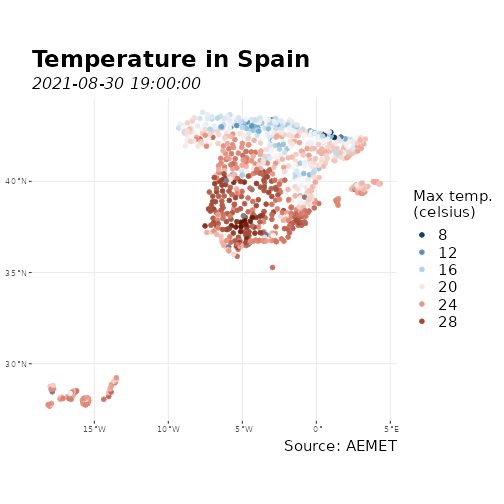
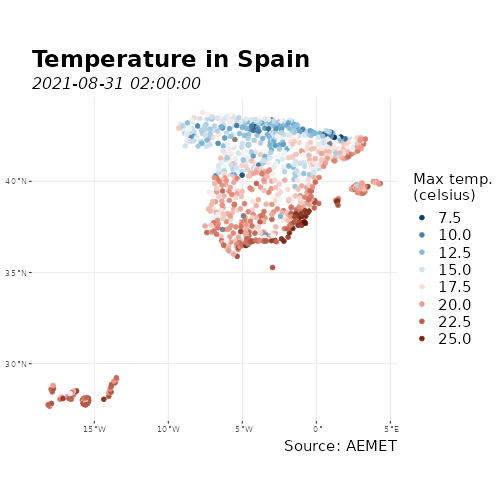
Update docs with pkgdev

diff --git a/README.md b/README.md
@@ -132,20 +132,20 @@ See how a tibble is displayed:
 # See a tibble in action
 
 aemet_last_obs("9434")
-#> # A tibble: 24 × 25
+#> # A tibble: 23 × 25
 #>    idema   lon fint                 prec   alt  vmax    vv    dv   lat  dmax
 #>    <chr> <dbl> <dttm>              <dbl> <dbl> <dbl> <dbl> <dbl> <dbl> <dbl>
-#>  1 9434  -1.00 2021-08-30 19:00:00     0   249   3.6   1.3    55  41.7   113
-#>  2 9434  -1.00 2021-08-30 20:00:00     0   249   2.5   1     222  41.7    60
-#>  3 9434  -1.00 2021-08-30 21:00:00     0   249   2.7   0.7    41  41.7   333
-#>  4 9434  -1.00 2021-08-30 22:00:00     0   249   2     1.6   286  41.7   305
-#>  5 9434  -1.00 2021-08-30 23:00:00     0   249   2.4   0.8   336  41.7   293
-#>  6 9434  -1.00 2021-08-31 00:00:00     0   249   2.6   1.9   259  41.7   275
-#>  7 9434  -1.00 2021-08-31 01:00:00     0   249   3.4   2.5   296  41.7   280
-#>  8 9434  -1.00 2021-08-31 02:00:00     0   249   5.1   2.4   281  41.7   258
-#>  9 9434  -1.00 2021-08-31 03:00:00     0   249   4.4   3.5   294  41.7   303
-#> 10 9434  -1.00 2021-08-31 04:00:00     0   249   5.7   3.5   289  41.7   298
-#> # … with 14 more rows, and 15 more variables: ubi <chr>, pres <dbl>, hr <dbl>,
+#>  1 9434  -1.00 2021-08-31 02:00:00     0   249   5.1   2.4   281  41.7   258
+#>  2 9434  -1.00 2021-08-31 03:00:00     0   249   4.4   3.5   294  41.7   303
+#>  3 9434  -1.00 2021-08-31 04:00:00     0   249   5.7   3.5   289  41.7   298
+#>  4 9434  -1.00 2021-08-31 05:00:00     0   249   4.7   2.2   283  41.7   295
+#>  5 9434  -1.00 2021-08-31 06:00:00     0   249   5     3.7   284  41.7   290
+#>  6 9434  -1.00 2021-08-31 07:00:00     0   249   5.5   3.6   298  41.7   300
+#>  7 9434  -1.00 2021-08-31 08:00:00     0   249   4.7   2.1   327  41.7   295
+#>  8 9434  -1.00 2021-08-31 09:00:00     0   249   4.2   2.8   304  41.7   298
+#>  9 9434  -1.00 2021-08-31 10:00:00     0   249   4.2   1.3   292  41.7   275
+#> 10 9434  -1.00 2021-08-31 11:00:00     0   249   5.2   1.5   213  41.7   243
+#> # … with 13 more rows, and 15 more variables: ubi <chr>, pres <dbl>, hr <dbl>,
 #> #   stdvv <dbl>, ts <dbl>, pres_nmar <dbl>, tamin <dbl>, ta <dbl>, tamax <dbl>,
 #> #   tpr <dbl>, stddv <dbl>, inso <dbl>, tss5cm <dbl>, pacutp <dbl>,
 #> #   tss20cm <dbl>
@@ -185,12 +185,12 @@ knitr::kable(head(data_observation))
 
 | idema |        lon | fint                | prec | alt | vmax |  vv |  dv |      lat | dmax | ubi                 |  pres | hr | stdvv |   ts | pres\_nmar | tamin |   ta | tamax |  tpr | stddv | inso | tss5cm | pacutp | tss20cm |
 | :---- | ---------: | :------------------ | ---: | --: | ---: | --: | --: | -------: | ---: | :------------------ | ----: | -: | ----: | ---: | ---------: | ----: | ---: | ----: | ---: | ----: | ---: | -----: | -----: | ------: |
-| 9434  | \-1.004167 | 2021-08-30 19:00:00 |    0 | 249 |  3.6 | 1.3 |  55 | 41.66056 |  113 | ZARAGOZA AEROPUERTO | 984.5 | 74 |   0.4 | 22.3 |     1013.2 |  22.7 | 22.7 |  23.9 | 17.9 |    38 |    0 |   30.2 |   0.05 |    30.6 |
-| 9434  | \-1.004167 | 2021-08-30 20:00:00 |    0 | 249 |  2.5 | 1.0 | 222 | 41.66056 |   60 | ZARAGOZA AEROPUERTO | 985.4 | 72 |   0.2 | 21.8 |     1014.2 |  22.3 | 22.4 |  22.7 | 17.1 |    43 |    0 |   29.4 |   0.00 |    30.6 |
-| 9434  | \-1.004167 | 2021-08-30 21:00:00 |    0 | 249 |  2.7 | 0.7 |  41 | 41.66056 |  333 | ZARAGOZA AEROPUERTO | 985.7 | 76 |   0.3 | 21.4 |     1014.6 |  21.9 | 21.9 |  22.5 | 17.5 |    39 |    0 |   28.7 |   0.00 |    30.4 |
-| 9434  | \-1.004167 | 2021-08-30 22:00:00 |    0 | 249 |  2.0 | 1.6 | 286 | 41.66056 |  305 | ZARAGOZA AEROPUERTO | 985.9 | 76 |   0.2 | 21.6 |     1014.7 |  21.9 | 22.0 |  22.1 | 17.5 |    20 |    0 |   28.3 |   0.00 |    30.2 |
-| 9434  | \-1.004167 | 2021-08-30 23:00:00 |    0 | 249 |  2.4 | 0.8 | 336 | 41.66056 |  293 | ZARAGOZA AEROPUERTO | 986.2 | 79 |   0.3 | 20.8 |     1015.1 |  21.4 | 21.4 |  22.0 | 17.6 |   131 |    0 |   27.8 |   0.00 |    30.0 |
-| 9434  | \-1.004167 | 2021-08-31 00:00:00 |    0 | 249 |  2.6 | 1.9 | 259 | 41.66056 |  275 | ZARAGOZA AEROPUERTO | 986.4 | 80 |   0.2 | 20.0 |     1015.4 |  20.5 | 20.5 |  21.4 | 16.9 |     7 |    0 |   27.3 |   0.00 |    29.8 |
+| 9434  | \-1.004167 | 2021-08-31 02:00:00 |    0 | 249 |  5.1 | 2.4 | 281 | 41.66056 |  258 | ZARAGOZA AEROPUERTO | 986.6 | 83 |   0.5 | 20.2 |     1015.7 |  20.2 | 20.2 |  20.5 | 17.2 |     8 |  0.0 |   26.5 |      0 |    29.3 |
+| 9434  | \-1.004167 | 2021-08-31 03:00:00 |    0 | 249 |  4.4 | 3.5 | 294 | 41.66056 |  303 | ZARAGOZA AEROPUERTO | 986.9 | 76 |   0.4 | 20.4 |     1016.0 |  20.1 | 20.2 |  20.3 | 15.8 |     6 |  0.0 |   26.3 |      0 |    29.1 |
+| 9434  | \-1.004167 | 2021-08-31 04:00:00 |    0 | 249 |  5.7 | 3.5 | 289 | 41.66056 |  298 | ZARAGOZA AEROPUERTO | 986.9 | 73 |   0.4 | 19.8 |     1016.1 |  19.7 | 19.7 |  20.2 | 14.7 |     6 |  0.0 |   25.9 |      0 |    28.8 |
+| 9434  | \-1.004167 | 2021-08-31 05:00:00 |    0 | 249 |  4.7 | 2.2 | 283 | 41.66056 |  295 | ZARAGOZA AEROPUERTO | 987.3 | 77 |   0.2 | 18.8 |     1016.5 |  19.0 | 19.0 |  19.7 | 14.9 |     9 |  0.0 |   25.6 |      0 |    28.6 |
+| 9434  | \-1.004167 | 2021-08-31 06:00:00 |    0 | 249 |  5.0 | 3.7 | 284 | 41.66056 |  290 | ZARAGOZA AEROPUERTO | 987.9 | 75 |   0.4 | 19.3 |     1017.2 |  18.7 | 18.9 |  19.0 | 14.3 |     6 |  0.0 |   25.2 |      0 |    28.4 |
+| 9434  | \-1.004167 | 2021-08-31 07:00:00 |    0 | 249 |  5.5 | 3.6 | 298 | 41.66056 |  300 | ZARAGOZA AEROPUERTO | 988.4 | 73 |   0.4 | 21.1 |     1017.6 |  18.9 | 19.3 |  19.3 | 14.3 |    11 |  1.7 |   25.2 |      0 |    28.2 |
 
 ``` r
 
